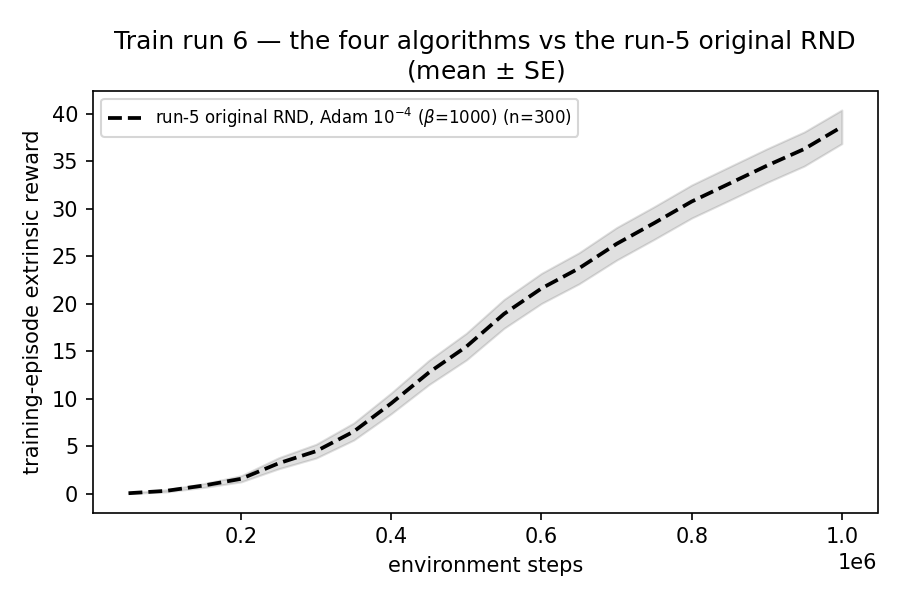
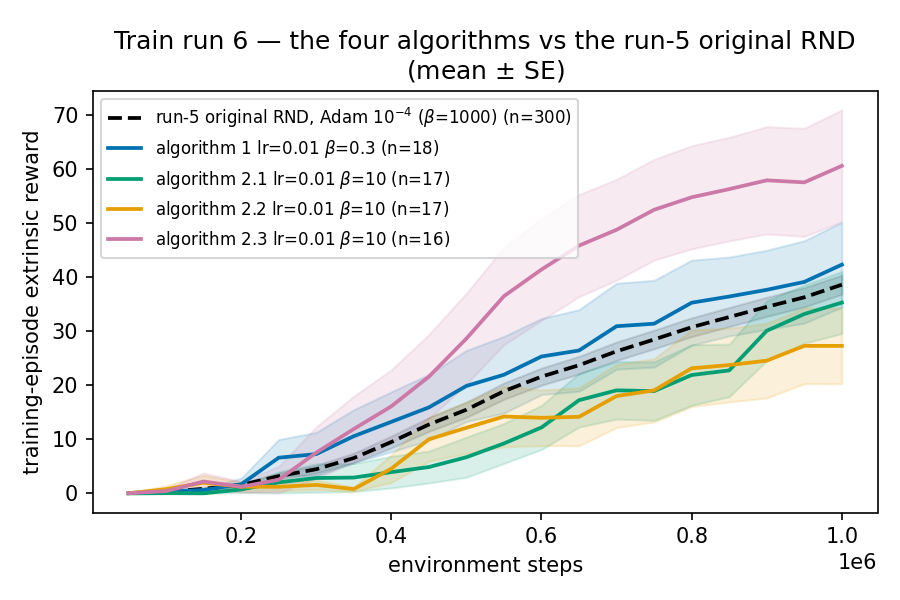
run 6: first live results into Table 60 and Figure 18 (2,034 completed runs)
All 120 configurations stand at 15-18 completed seeds (none at the 20-seed
truncation floor yet, so no verdicts). Each arm's best configuration so far,
against the run-5 original RND reference (38.64 +- 1.77, n=300):

  algorithm 1    lr 0.01  beta=0.3   42.35 +- 7.87   succ 0.72  n=18
  algorithm 2.1  lr 0.01  beta=10    35.33 +- 5.75   succ 0.88  n=17
  algorithm 2.2  lr 0.01  beta=10    27.31 +- 7.04   succ 0.59  n=17
  algorithm 2.3  lr 0.01  beta=10    60.64 +- 10.34  succ 0.81  n=16

Notable, interim: algorithm 2.3 (LayerNorm) leads everything by a wide margin,
and every arm's best sits at the HIGHER predictor learning rate with a small
bonus weight (0.3-10) -- the same left-shifted preference the RND learning-rate
addendum showed on this task. All standard errors are still 4-6x the
reference's; the phase-1 decisions start once configurations reach 20 seeds.

Claude-Session: https://claude.ai/code/session_011GfNo2aBNmrR8qw666rEdp

diff --git a/07_reconstruction/train_runs/2026-08-08-02-00_run_6_pointmaze-large-topright__alg1-sgd-l2-biasnormal0.5__alg2.1-ratio__alg2.2-normloss__alg2.3-layernorm__lr-1e-3-1e-2_beta-1e-3-to-1e4-x15_1Mstep_seed1200-1499_prune20-race100-winner300_bar-run5-origrnd_cpu-nolim-resv/analysis/plots/reward_table.tex b/07_reconstruction/train_runs/2026-08-08-02-00_run_6_pointmaze-large-topright__alg1-sgd-l2-biasnormal0.5__alg2.1-ratio__alg2.2-normloss__alg2.3-layernorm__lr-1e-3-1e-2_beta-1e-3-to-1e4-x15_1Mstep_seed1200-1499_prune20-race100-winner300_bar-run5-origrnd_cpu-nolim-resv/analysis/plots/reward_table.tex
@@ -2,11 +2,11 @@
 \toprule
 \textbf{Arm} & $\bar R$ & $\mathrm{SE}$ & succ. & $n$ \\
 \midrule
-run-5 original RND, Adam $10^{-4}$ ($\beta{=}1000$) --- the frozen bar & \textbf{38.64} & 1.77 & \textbf{0.78} & 300 \\
+run-5 original RND, Adam $10^{-4}$ ($\beta{=}1000$) --- the frozen bar & 38.64 & 1.77 & 0.78 & 300 \\
 \midrule
-algorithm 1 (still running) & -- & -- & -- & 0 \\
-algorithm 2.1 (still running) & -- & -- & -- & 0 \\
-algorithm 2.2 (still running) & -- & -- & -- & 0 \\
-algorithm 2.3 (still running) & -- & -- & -- & 0 \\
+algorithm 1 (lr $0.01$, $\beta{=}0.3$) & \underline{42.35} & 7.87 & 0.72 & 18 \\
+algorithm 2.1 (lr $0.01$, $\beta{=}10$) & 35.33 & 5.75 & \textbf{0.88} & 17 \\
+algorithm 2.2 (lr $0.01$, $\beta{=}10$) & 27.31 & 7.04 & 0.59 & 17 \\
+algorithm 2.3 (lr $0.01$, $\beta{=}10$) & \textbf{60.64} & 10.34 & \underline{0.81} & 16 \\
 \bottomrule
 \end{tabular}
